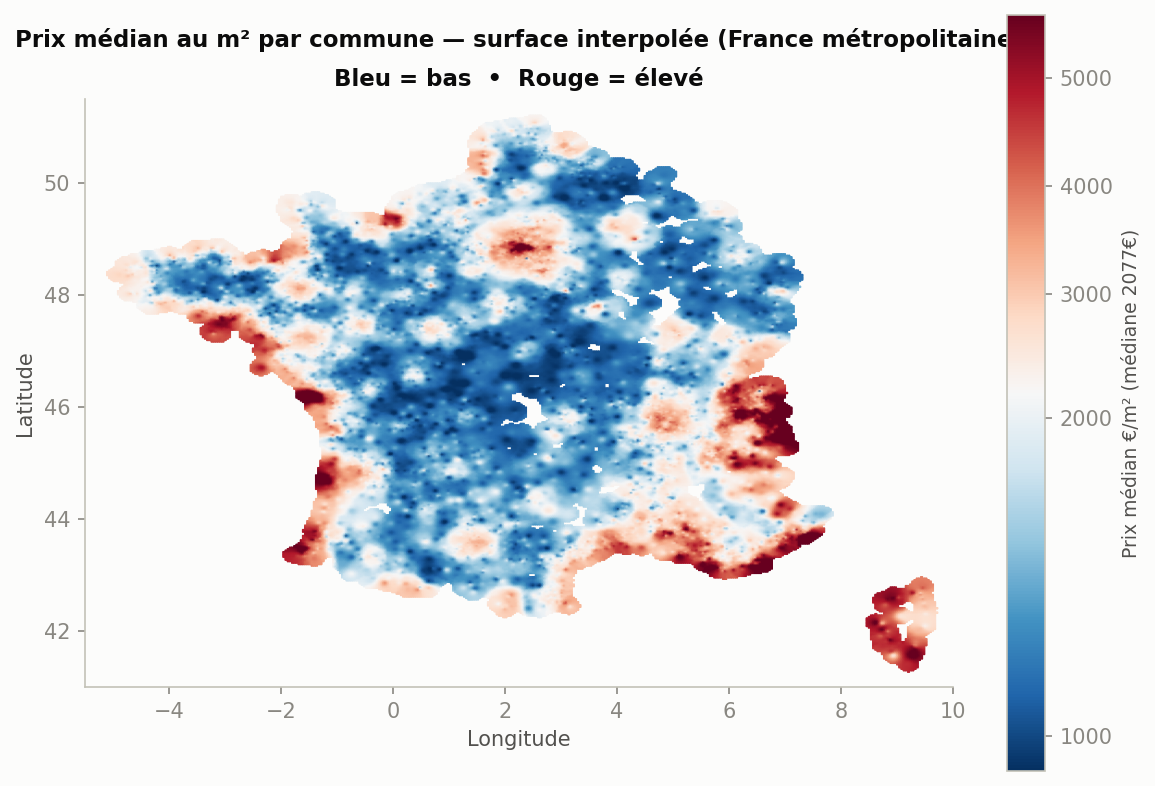
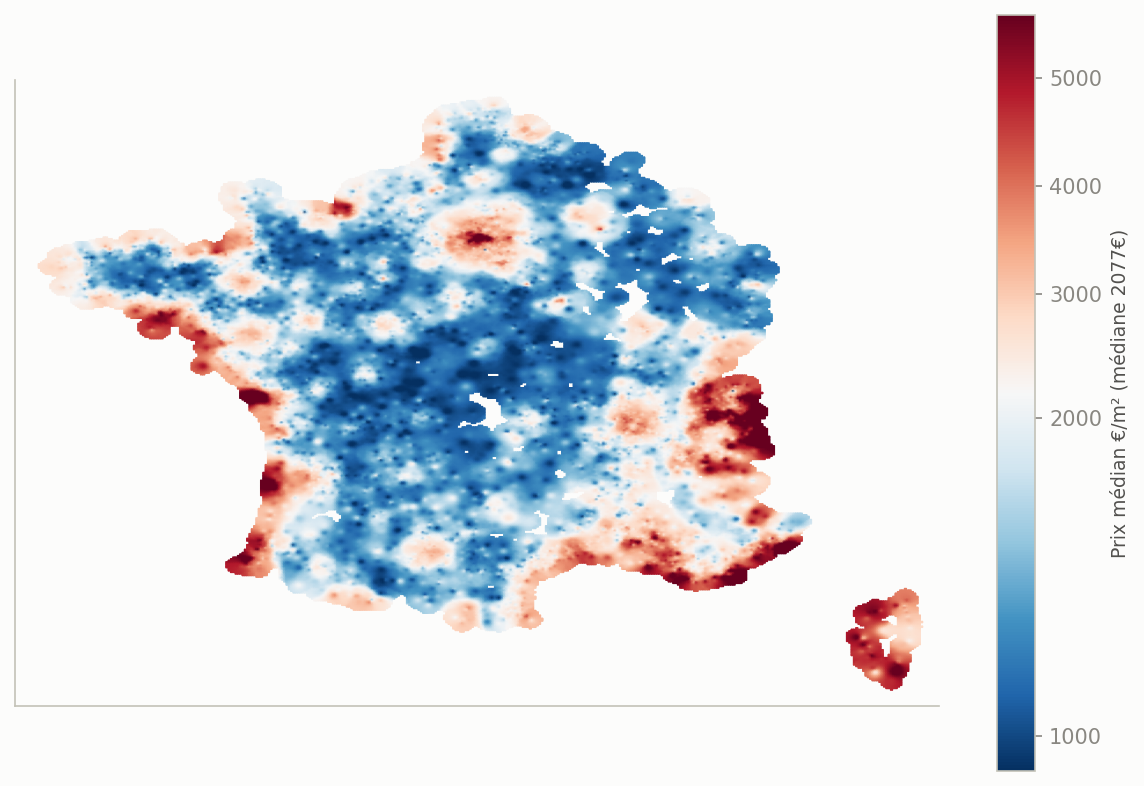
style: strip title and lat/long axis ticks from the 3 national maps
price_map_france, yield_map_france (rendement brut) and map_opportunities
no longer render a title or coordinate tick labels — cleaner for direct
insertion in the mémoire. Regenerated all 3 with fresh model artifacts.

diff --git a/ml/scripts/generate_recommendations.py b/ml/scripts/generate_recommendations.py
@@ -212,9 +212,8 @@ def make_map_opportunities(df: pd.DataFrame, top20: pd.DataFrame, run_dir: Path)
                s=90, linewidths=1.2, label=f"Top {TOP_N} opportunités")
     cbar = fig.colorbar(sc, ax=ax, shrink=0.7)
     cbar.set_label("Opportunity score (%) — bleu = sous-évalué, rouge = sur-évalué")
-    ax.set_xlabel("Longitude")
-    ax.set_ylabel("Latitude")
-    ax.set_title("Modèle 2 — Score d'opportunité (France métropolitaine)")
+    ax.set_xticks([])
+    ax.set_yticks([])
     ax.set_aspect("equal")
     ax.legend(loc="lower left")
     save(fig, run_dir / "map_opportunities.png")

diff --git a/ml/scripts/analyze_yield_geography.py b/ml/scripts/analyze_yield_geography.py
@@ -208,9 +208,8 @@ def make_map(df: pd.DataFrame, value_col: str, national_median: float, run_dir: 
     mesh = ax.pcolormesh(lon_mesh, lat_mesh, grid_values, cmap=cmap, norm=norm, shading="gouraud")
     cbar = fig.colorbar(mesh, ax=ax, shrink=0.7)
     cbar.set_label(cbar_label, fontsize=9)
-    ax.set_xlabel("Longitude")
-    ax.set_ylabel("Latitude")
-    ax.set_title(title, fontsize=11, linespacing=1.8)
+    ax.set_xticks([])
+    ax.set_yticks([])
     ax.set_aspect("equal")
     save(fig, run_dir / filename)
 
